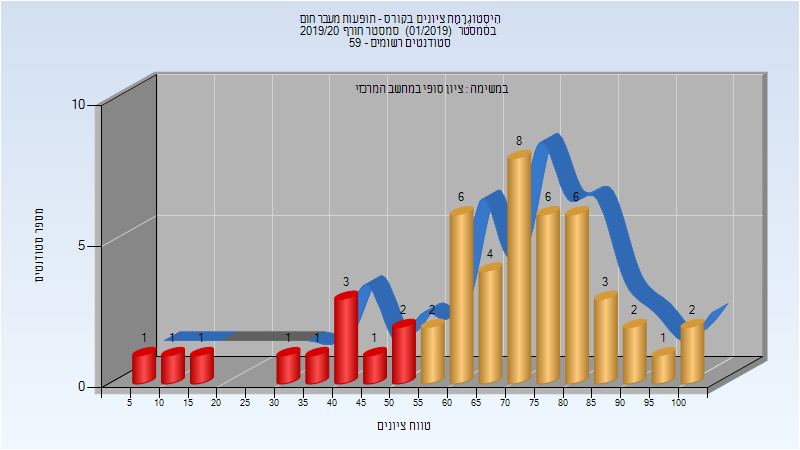
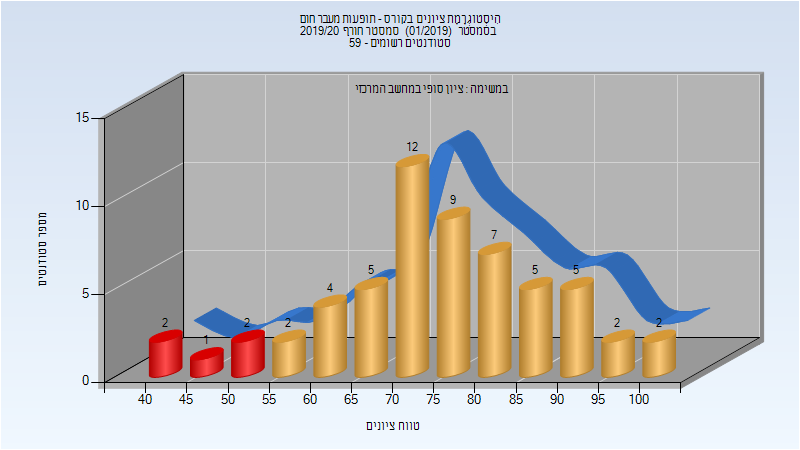
Deploy michael-maltsev/technion-histograms to github.com/michael-maltsev/technion-histograms.git:gh-pages

diff --git a/064117/index.html b/064117/index.html
@@ -227,6 +227,58 @@
 </tr>
 </tbody>
 </table>
+<h3>מבחן מועד ב'</h3>
+<p><img src="201901/Exam_B.png" alt="201901 Exam_B" /></p>
+<table>
+<thead>
+<tr>
+<th>סטודנטים</th>
+<th>עברו/נכשלו</th>
+<th>אחוז עוברים</th>
+<th>ציון מינימלי</th>
+<th>ציון מקסימלי</th>
+<th>ממוצע</th>
+<th>חציון</th>
+</tr>
+</thead>
+<tbody>
+<tr>
+<td>23</td>
+<td>19/4</td>
+<td>83</td>
+<td>43</td>
+<td>95</td>
+<td>71.565</td>
+<td>69</td>
+</tr>
+</tbody>
+</table>
+<h3>סופי מועד ב'</h3>
+<p><img src="201901/Final_B.png" alt="201901 Final_B" /></p>
+<table>
+<thead>
+<tr>
+<th>סטודנטים</th>
+<th>עברו/נכשלו</th>
+<th>אחוז עוברים</th>
+<th>ציון מינימלי</th>
+<th>ציון מקסימלי</th>
+<th>ממוצע</th>
+<th>חציון</th>
+</tr>
+</thead>
+<tbody>
+<tr>
+<td>23</td>
+<td>19/4</td>
+<td>83</td>
+<td>43</td>
+<td>95</td>
+<td>73.043</td>
+<td>72</td>
+</tr>
+</tbody>
+</table>
 <h3>סופי</h3>
 <p><img src="201901/Finals.png" alt="201901 Finals" /></p>
 <table>
@@ -243,13 +295,13 @@
 </thead>
 <tbody>
 <tr>
-<td>51</td>
-<td>40/11</td>
-<td>78</td>
-<td>6</td>
+<td>58</td>
+<td>53/5</td>
+<td>91</td>
+<td>42</td>
 <td>100</td>
-<td>66.843</td>
-<td>70</td>
+<td>74.724</td>
+<td>75</td>
 </tr>
 </tbody>
 </table>

diff --git a/064118/index.html b/064118/index.html
@@ -209,6 +209,58 @@
 </tr>
 </tbody>
 </table>
+<h3>מבחן מועד ב'</h3>
+<p><img src="201902/Exam_B.png" alt="201902 Exam_B" /></p>
+<table>
+<thead>
+<tr>
+<th>סטודנטים</th>
+<th>עברו/נכשלו</th>
+<th>אחוז עוברים</th>
+<th>ציון מינימלי</th>
+<th>ציון מקסימלי</th>
+<th>ממוצע</th>
+<th>חציון</th>
+</tr>
+</thead>
+<tbody>
+<tr>
+<td>17</td>
+<td>15/2</td>
+<td>88</td>
+<td>36</td>
+<td>96</td>
+<td>72.353</td>
+<td>74</td>
+</tr>
+</tbody>
+</table>
+<h3>סופי מועד ב'</h3>
+<p><img src="201902/Final_B.png" alt="201902 Final_B" /></p>
+<table>
+<thead>
+<tr>
+<th>סטודנטים</th>
+<th>עברו/נכשלו</th>
+<th>אחוז עוברים</th>
+<th>ציון מינימלי</th>
+<th>ציון מקסימלי</th>
+<th>ממוצע</th>
+<th>חציון</th>
+</tr>
+</thead>
+<tbody>
+<tr>
+<td>17</td>
+<td>15/2</td>
+<td>88</td>
+<td>36</td>
+<td>96</td>
+<td>74.941</td>
+<td>77</td>
+</tr>
+</tbody>
+</table>
 <h3>סופי</h3>
 <p><img src="201902/Finals.png" alt="201902 Finals" /></p>
 <table>
@@ -225,12 +277,12 @@
 </thead>
 <tbody>
 <tr>
-<td>41</td>
-<td>41/0</td>
-<td>100</td>
-<td>56</td>
+<td>53</td>
+<td>51/2</td>
+<td>96</td>
+<td>36</td>
 <td>97</td>
-<td>79.293</td>
+<td>78.868</td>
 <td>80</td>
 </tr>
 </tbody>

diff --git a/064120/index.html b/064120/index.html
@@ -61,7 +61,7 @@
 <td>100</td>
 <td>55</td>
 <td>94</td>
-<td>75.769</td>
+<td>75.846</td>
 <td>76</td>
 </tr>
 </tbody>
@@ -87,7 +87,33 @@
 <td>92</td>
 <td>47</td>
 <td>95</td>
-<td>81.154</td>
+<td>81.231</td>
+<td>83</td>
+</tr>
+</tbody>
+</table>
+<h3>סופי</h3>
+<p><img src="201902/Finals.png" alt="201902 Finals" /></p>
+<table>
+<thead>
+<tr>
+<th>סטודנטים</th>
+<th>עברו/נכשלו</th>
+<th>אחוז עוברים</th>
+<th>ציון מינימלי</th>
+<th>ציון מקסימלי</th>
+<th>ממוצע</th>
+<th>חציון</th>
+</tr>
+</thead>
+<tbody>
+<tr>
+<td>13</td>
+<td>12/1</td>
+<td>92</td>
+<td>47</td>
+<td>95</td>
+<td>81.231</td>
 <td>83</td>
 </tr>
 </tbody>

diff --git a/066332/index.html b/066332/index.html
@@ -71,5 +71,31 @@
 </tr>
 </tbody>
 </table>
+<h3>סופי</h3>
+<p><img src="201902/Finals.png" alt="201902 Finals" /></p>
+<table>
+<thead>
+<tr>
+<th>סטודנטים</th>
+<th>עברו/נכשלו</th>
+<th>אחוז עוברים</th>
+<th>ציון מינימלי</th>
+<th>ציון מקסימלי</th>
+<th>ממוצע</th>
+<th>חציון</th>
+</tr>
+</thead>
+<tbody>
+<tr>
+<td>17</td>
+<td>17/0</td>
+<td>100</td>
+<td>84</td>
+<td>96</td>
+<td>89.765</td>
+<td>89</td>
+</tr>
+</tbody>
+</table>
   </body>
 </html>

diff --git a/064117/README.md b/064117/README.md
@@ -65,11 +65,27 @@
 | ---- | ---- | ---- | ---- | ---- | ---- | ---- |
 | 51 | 39/12 | 76 | 6 | 100 | 66.725 | 70 |
 
+### מבחן מועד ב'
+
+![201901 Exam_B](201901/Exam_B.png)
+
+| סטודנטים | עברו/נכשלו | אחוז עוברים | ציון מינימלי | ציון מקסימלי | ממוצע | חציון |
+| ---- | ---- | ---- | ---- | ---- | ---- | ---- |
+| 23 | 19/4 | 83 | 43 | 95 | 71.565 | 69 |
+
+### סופי מועד ב'
+
+![201901 Final_B](201901/Final_B.png)
+
+| סטודנטים | עברו/נכשלו | אחוז עוברים | ציון מינימלי | ציון מקסימלי | ממוצע | חציון |
+| ---- | ---- | ---- | ---- | ---- | ---- | ---- |
+| 23 | 19/4 | 83 | 43 | 95 | 73.043 | 72 |
+
 ### סופי
 
 ![201901 Finals](201901/Finals.png)
 
 | סטודנטים | עברו/נכשלו | אחוז עוברים | ציון מינימלי | ציון מקסימלי | ממוצע | חציון |
 | ---- | ---- | ---- | ---- | ---- | ---- | ---- |
-| 51 | 40/11 | 78 | 6 | 100 | 66.843 | 70 |
+| 58 | 53/5 | 91 | 42 | 100 | 74.724 | 75 |
 

diff --git a/064118/README.md b/064118/README.md
@@ -59,11 +59,27 @@
 | ---- | ---- | ---- | ---- | ---- | ---- | ---- |
 | 41 | 41/0 | 100 | 56 | 97 | 79.293 | 80 |
 
+### מבחן מועד ב'
+
+![201902 Exam_B](201902/Exam_B.png)
+
+| סטודנטים | עברו/נכשלו | אחוז עוברים | ציון מינימלי | ציון מקסימלי | ממוצע | חציון |
+| ---- | ---- | ---- | ---- | ---- | ---- | ---- |
+| 17 | 15/2 | 88 | 36 | 96 | 72.353 | 74 |
+
+### סופי מועד ב'
+
+![201902 Final_B](201902/Final_B.png)
+
+| סטודנטים | עברו/נכשלו | אחוז עוברים | ציון מינימלי | ציון מקסימלי | ממוצע | חציון |
+| ---- | ---- | ---- | ---- | ---- | ---- | ---- |
+| 17 | 15/2 | 88 | 36 | 96 | 74.941 | 77 |
+
 ### סופי
 
 ![201902 Finals](201902/Finals.png)
 
 | סטודנטים | עברו/נכשלו | אחוז עוברים | ציון מינימלי | ציון מקסימלי | ממוצע | חציון |
 | ---- | ---- | ---- | ---- | ---- | ---- | ---- |
-| 41 | 41/0 | 100 | 56 | 97 | 79.293 | 80 |
+| 53 | 51/2 | 96 | 36 | 97 | 78.868 | 80 |
 

diff --git a/064120/README.md b/064120/README.md
@@ -13,7 +13,7 @@
 
 | סטודנטים | עברו/נכשלו | אחוז עוברים | ציון מינימלי | ציון מקסימלי | ממוצע | חציון |
 | ---- | ---- | ---- | ---- | ---- | ---- | ---- |
-| 13 | 13/0 | 100 | 55 | 94 | 75.769 | 76 |
+| 13 | 13/0 | 100 | 55 | 94 | 75.846 | 76 |
 
 ### סופי מועד א'
 
@@ -21,5 +21,13 @@
 
 | סטודנטים | עברו/נכשלו | אחוז עוברים | ציון מינימלי | ציון מקסימלי | ממוצע | חציון |
 | ---- | ---- | ---- | ---- | ---- | ---- | ---- |
-| 13 | 12/1 | 92 | 47 | 95 | 81.154 | 83 |
+| 13 | 12/1 | 92 | 47 | 95 | 81.231 | 83 |
+
+### סופי
+
+![201902 Finals](201902/Finals.png)
+
+| סטודנטים | עברו/נכשלו | אחוז עוברים | ציון מינימלי | ציון מקסימלי | ממוצע | חציון |
+| ---- | ---- | ---- | ---- | ---- | ---- | ---- |
+| 13 | 12/1 | 92 | 47 | 95 | 81.231 | 83 |
 

diff --git a/066332/README.md b/066332/README.md
@@ -18,3 +18,11 @@
 | ---- | ---- | ---- | ---- | ---- | ---- | ---- |
 | 17 | 17/0 | 100 | 84.325 | 95.925 | 89.769 | 88.925 |
 
+### סופי
+
+![201902 Finals](201902/Finals.png)
+
+| סטודנטים | עברו/נכשלו | אחוז עוברים | ציון מינימלי | ציון מקסימלי | ממוצע | חציון |
+| ---- | ---- | ---- | ---- | ---- | ---- | ---- |
+| 17 | 17/0 | 100 | 84 | 96 | 89.765 | 89 |
+
